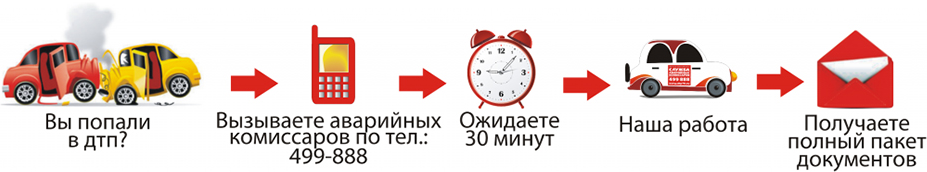
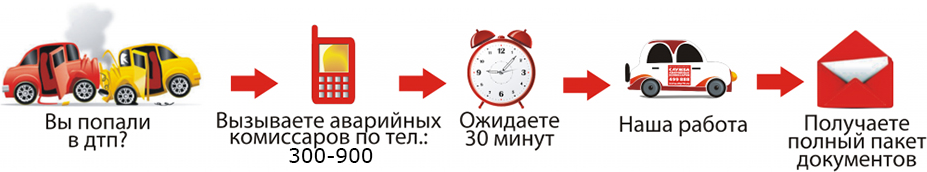
Changes for dtp

Changed region(s): [[0.302, 0.843, 0.4229, 0.9593]]

diff --git a/public/dtp/index.html b/public/dtp/index.html
@@ -25,7 +25,7 @@
     .header{
       border-top: 2px solid #c55f14;
       border-bottom: 2px solid #f41a00;
-      height: 136px;
+      height: 150px;
       margin: 0 0 1px 0;
       overflow: hidden;
     }
@@ -115,21 +115,21 @@
       margin: 0 10px 0 0;
       width: 20px;
     }
-    .banner{
-      background: url('banner.png') no-repeat left;
+    .info{
+      background: url('info.png') no-repeat left;
       border-radius: 10px;
       border: 1px dashed #d48042;
       margin: 30px 0 0 0;
       padding: 15px 15px 15px 290px;
       height: 187px;
     }
-    .banner h2{
+    .info h2{
       color: #d26417;
       font-size: 1.2em;
       font-weight: bold;
       margin: 0 0 20px 0;
     }
-    .banner .desc{
+    .info .desc{
       font-size: 1.1em;
       line-height: 1.5em;
       text-align: justify;
@@ -181,7 +181,8 @@
     <h1>Оформление ДТП без ГИБДД в соответствии с п.2.6 ПДД</h1>
     <div class="contacts">
       <div class="phone">300&ndash;900</div>
-      <div class="address">г.Томск, ул.Косарева 33б</div>
+      <div class="address">г.Томск, ул. Косарева 33б</div>
+      <div class="mobile_phone">+7-913-820-09-00</div>
     </div>
     <div class="title">Служба аварийных комиссаров</div>
     <div class="desc">ООО  &laquo;Альянс &ndash; Ветераны ГАИ Томска&raquo;</div>
@@ -198,9 +199,9 @@
       <li>Заполнять кучу документов и т.д.;</li>
       <li>Тратить свое время и нервы на походы из кабинета в кабинет, собирая справки и другие документы для страховой.</li>
     </ul>
-    <div class="banner">
+    <div class="info">
       <h2>&laquo;Полис ОСАГО от Комиссара&raquo;</h2>
-      <div class="desc">Теперь при покупке полиса ОСАГО, вам будет предложено приобрести дополнительный пакет услуг Аварийных комиссаров, за небольшую стоимость, значительно ниже стоимости "Абонентской карточки". Так же вы можете приобрести ОСАГО с дополнительным пакетом у нас в офисе, по адресу пр.Ленина 37.</div>
+      <div class="desc">Теперь при покупке полиса ОСАГО, вам будет предложено приобрести дополнительный пакет услуг Аварийных комиссаров, за небольшую стоимость, значительно ниже стоимости "Абонентской карточки". Так же вы можете приобрести ОСАГО с дополнительным пакетом у нас в офисе, по адресу ул. Косарева 33б</div>
     </div>
   </div>
   <div class="footer">
@@ -212,12 +213,49 @@
     </div>
     <div class="contacts">
       <ul>
-        <li>634034, г.Томск, ул.Косарева 33б</li>
+        <li>634034, г.Томск, ул. Косарева 33б</li>
         <li>Круглосуточная диспетчерская служба: (3822) 300-900</li>
         <li>Общий: (3822) 555-005</li>
         <li>email: <a href='mailto:komissaty70@mail.ru'>komissary70@mail.ru</a></li>
       </ul>
     </div>
   </div>
+
+  <!-- Yandex.Metrika counter -->
+  <script type="text/javascript">
+    (function (d, w, c) {
+     (w[c] = w[c] || []).push(function() {
+       try {
+       w.yaCounter14923525 = new Ya.Metrika({id:14923525, enableAll: true, webvisor:true});
+       } catch(e) { }
+       });
+
+     var n = d.getElementsByTagName("script")[0],
+     s = d.createElement("script"),
+     f = function () { n.parentNode.insertBefore(s, n); };
+     s.type = "text/javascript";
+     s.async = true;
+     s.src = (d.location.protocol == "https:" ? "https:" : "http:") + "//mc.yandex.ru/metrika/watch.js";
+
+     if (w.opera == "[object Opera]") {
+     d.addEventListener("DOMContentLoaded", f);
+     } else { f(); }
+     })(document, window, "yandex_metrika_callbacks");
+   </script>
+   <noscript><div><img src="//mc.yandex.ru/watch/14923525" style="position:absolute; left:-9999px;" alt="" /></div></noscript>
+   <!-- /Yandex.Metrika counter -->
+
+   <!-- Google.Analytics -->
+   <script type="text/javascript">
+     var _gaq = _gaq || [];
+     _gaq.push(['_setAccount', 'UA-36455594-1']);
+     _gaq.push(['_trackPageview']);
+     (function() {
+      var ga = document.createElement('script'); ga.type = 'text/javascript'; ga.async = true;
+      ga.src = ('https:' == document.location.protocol ? 'https://ssl' : 'http://www') + '.google-analytics.com/ga.js';
+      var s = document.getElementsByTagName('script')[0]; s.parentNode.insertBefore(ga, s);
+      })();
+    </script>
+    <!-- /Google.Analytics -->
 </body>
 </html>
